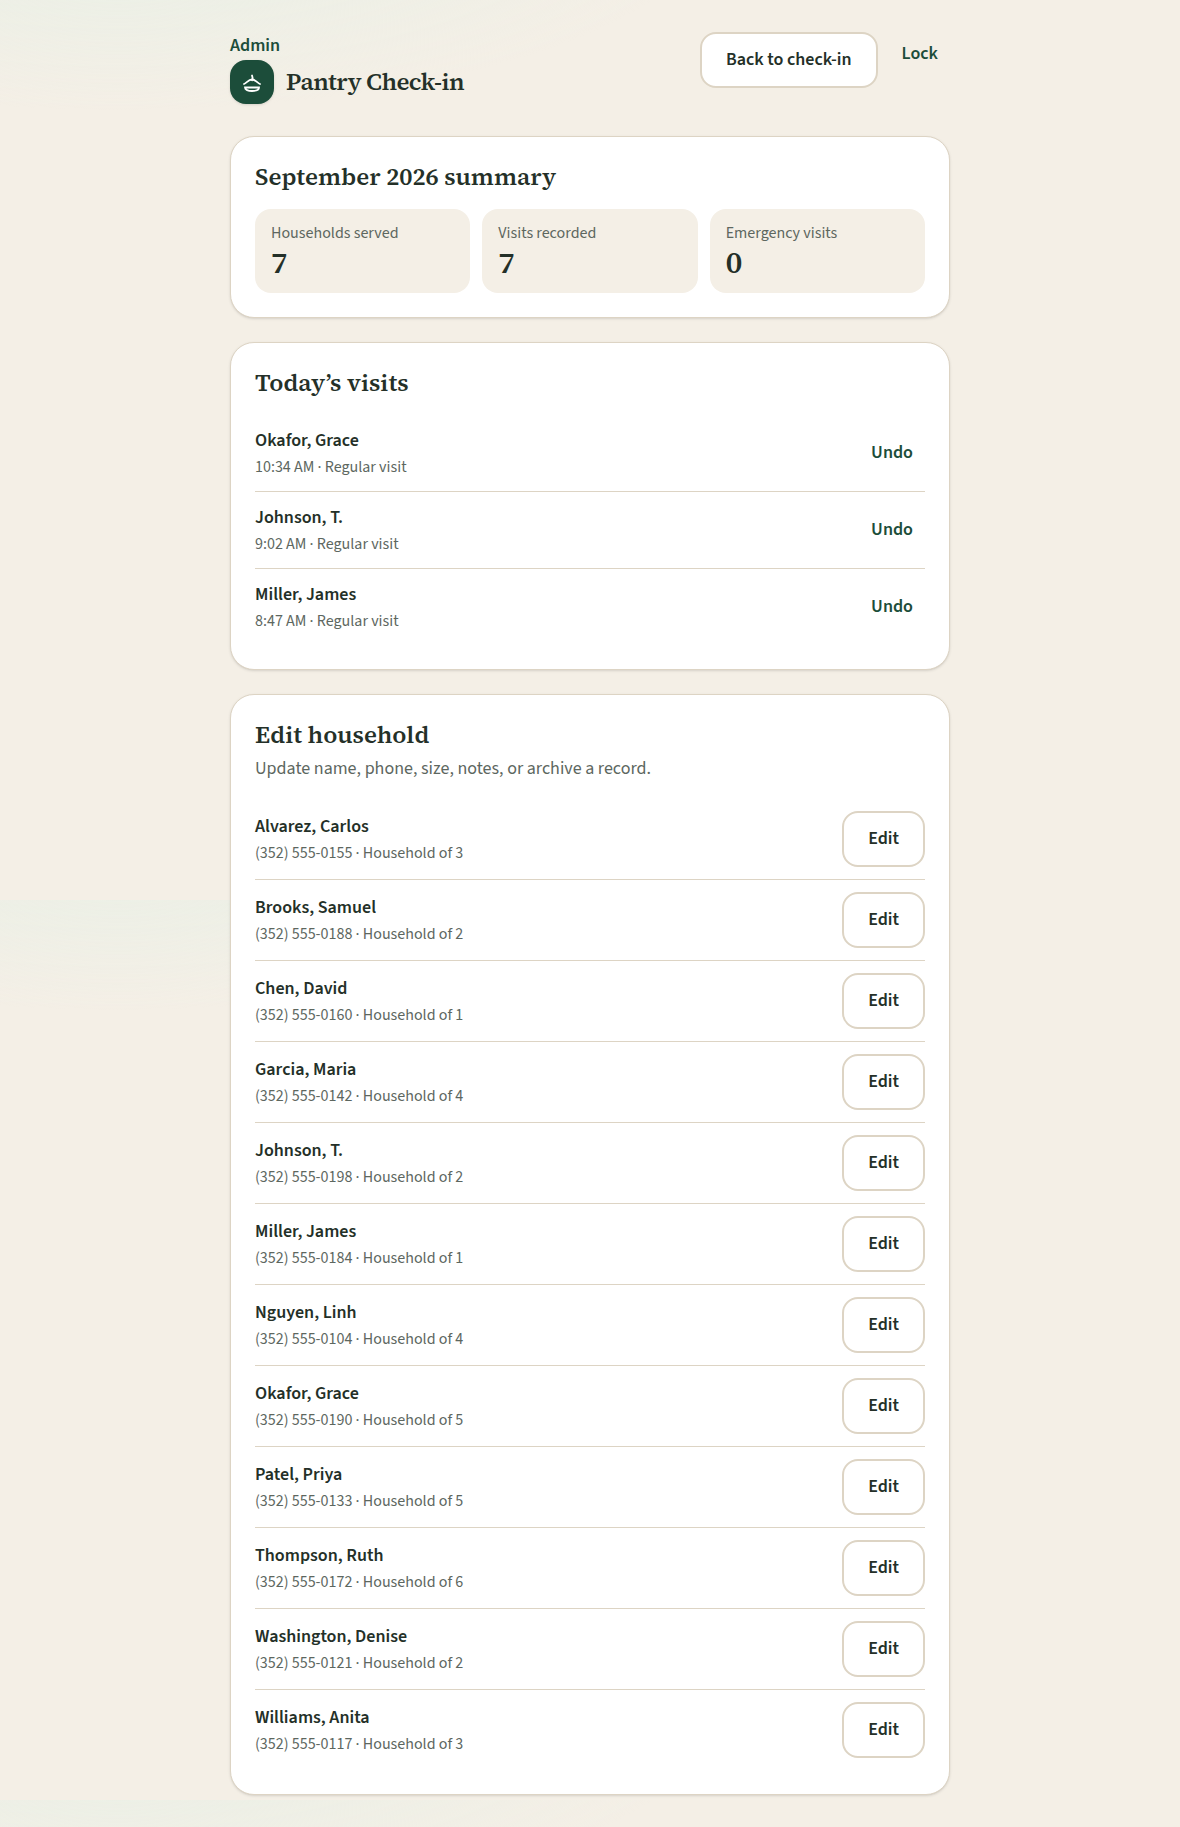
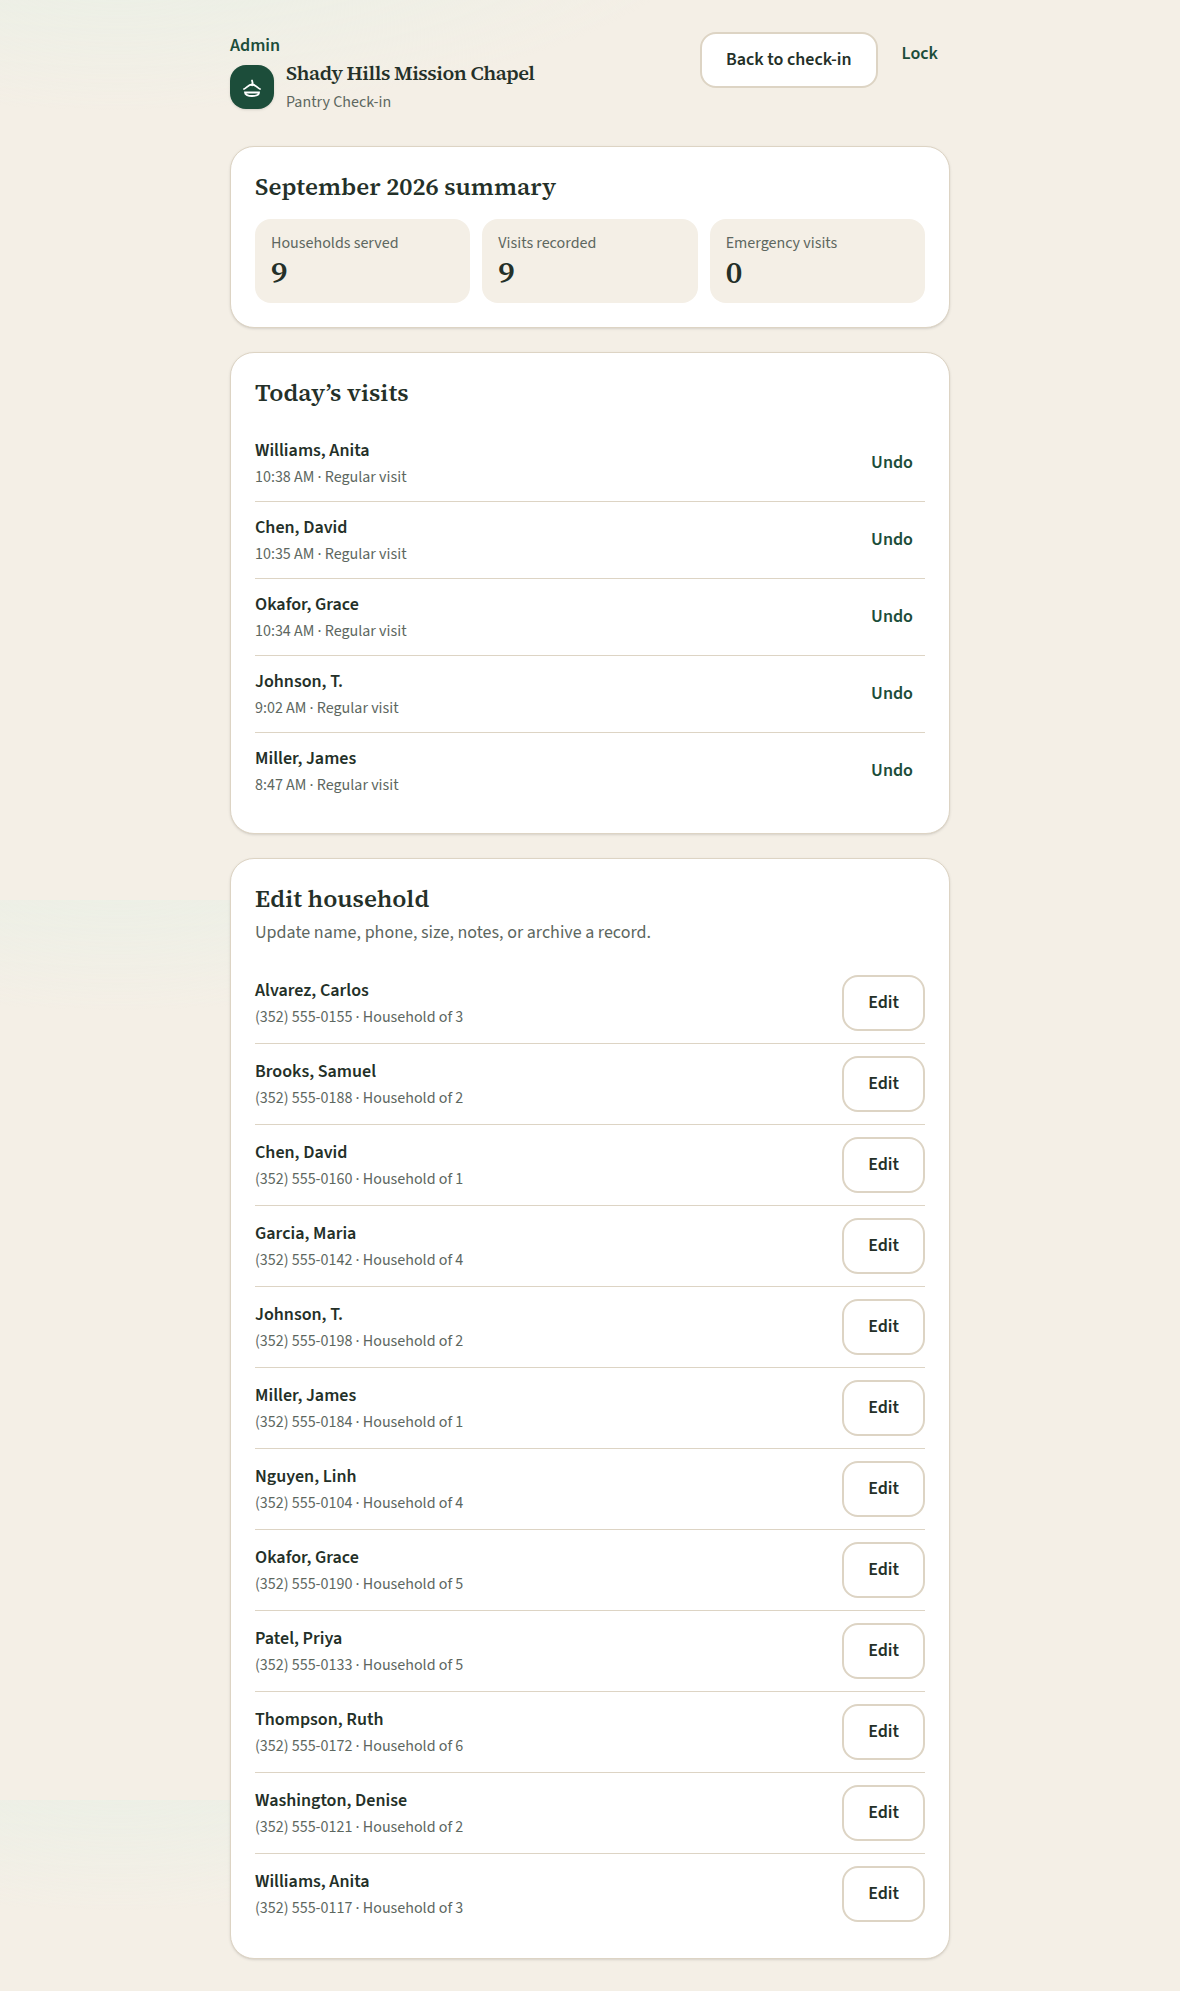
Brand the app as Shady Hills Mission Chapel
Use the chapel name in the check-in header, document title, and README. Policy and volunteer flows are unchanged.

Changed region(s): [[0.1831, 0.0, 0.8237, 0.9672], [0.6102, 0.0, 0.7322, 0.0624], [0.7627, 0.0, 0.7932, 0.0312]]

diff --git a/src/components/AppShell.tsx b/src/components/AppShell.tsx
@@ -30,13 +30,13 @@ export function BrandMark({ compact }: { compact?: boolean }) {
           <path d="M12 5.5c.8 1.6.8 3.2 0 4.8" strokeLinecap="round" />
         </svg>
       </span>
-      <div>
-        <p className="font-serif text-2xl font-semibold leading-none tracking-tight text-ink">
+      <div className="min-w-0">
+        <p className={cn("font-serif font-semibold leading-snug tracking-tight text-ink", compact ? "text-xl" : "text-2xl")}>
+          Shady Hills Mission Chapel
+        </p>
+        <p className={cn("text-muted", compact ? "mt-0.5 text-base" : "mt-1 text-lg")}>
           Pantry Check-in
         </p>
-        {!compact ? (
-          <p className="mt-1 text-base text-muted">Christian Food Pantry</p>
-        ) : null}
       </div>
     </div>
   );

diff --git a/src/app/layout.tsx b/src/app/layout.tsx
@@ -16,12 +16,12 @@ const sourceSerif = Source_Serif_4({
 });
 
 export const metadata: Metadata = {
-  title: "Pantry Check-in",
+  title: "Shady Hills Mission Chapel — Pantry Check-in",
   description:
-    "Tablet-friendly intake for pantry volunteers: find a household, see monthly eligibility, and record a visit.",
+    "Tablet-friendly intake for Shady Hills Mission Chapel pantry volunteers: find a household, see monthly eligibility, and record a visit.",
   appleWebApp: {
     capable: true,
-    title: "Pantry Check-in",
+    title: "Shady Hills Pantry",
     statusBarStyle: "default",
   },
 };

diff --git a/src/components/AdminPanel.tsx b/src/components/AdminPanel.tsx
@@ -21,7 +21,7 @@ export function AdminPanel({
 }) {
   return (
     <div>
-      <header className="mb-8 flex flex-wrap items-start justify-between gap-4">
+      <header className="mb-8 flex flex-col gap-4 sm:flex-row sm:items-start sm:justify-between">
         <div>
           <p className="text-lg font-semibold text-forest">Admin</p>
           <BrandMark compact />

diff --git a/README.md b/README.md
@@ -1,6 +1,6 @@
-# Pantry Check-in
+# Shady Hills Mission Chapel — Pantry Check-in
 
-Tablet-friendly intake app for Christian food pantry volunteers. Find a household, see whether they can receive food **this calendar month**, record a visit, register a new household, or use a short emergency exception.
+Tablet-friendly intake app for **Shady Hills Mission Chapel** pantry volunteers. Find a household, see whether they can receive food **this calendar month**, record a visit, register a new household, or use a short emergency exception.
 
 Language stays warm and dignified. The app says **“Already received food this month,”** never denied, blocked, or ineligible.
 
